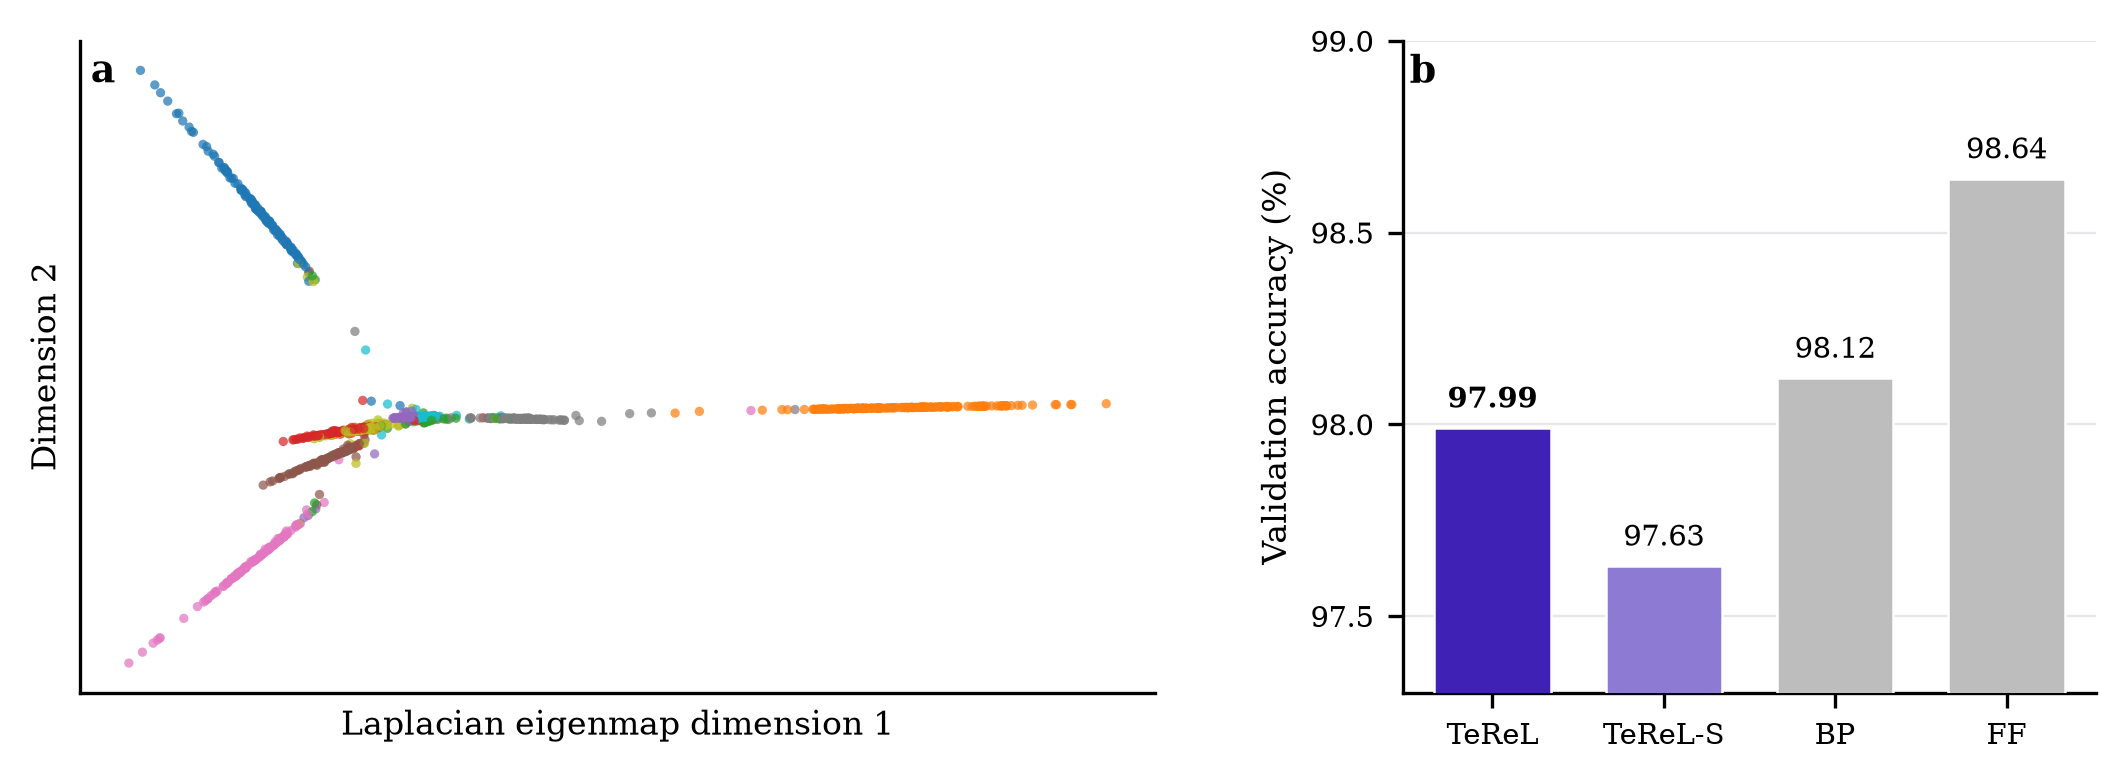
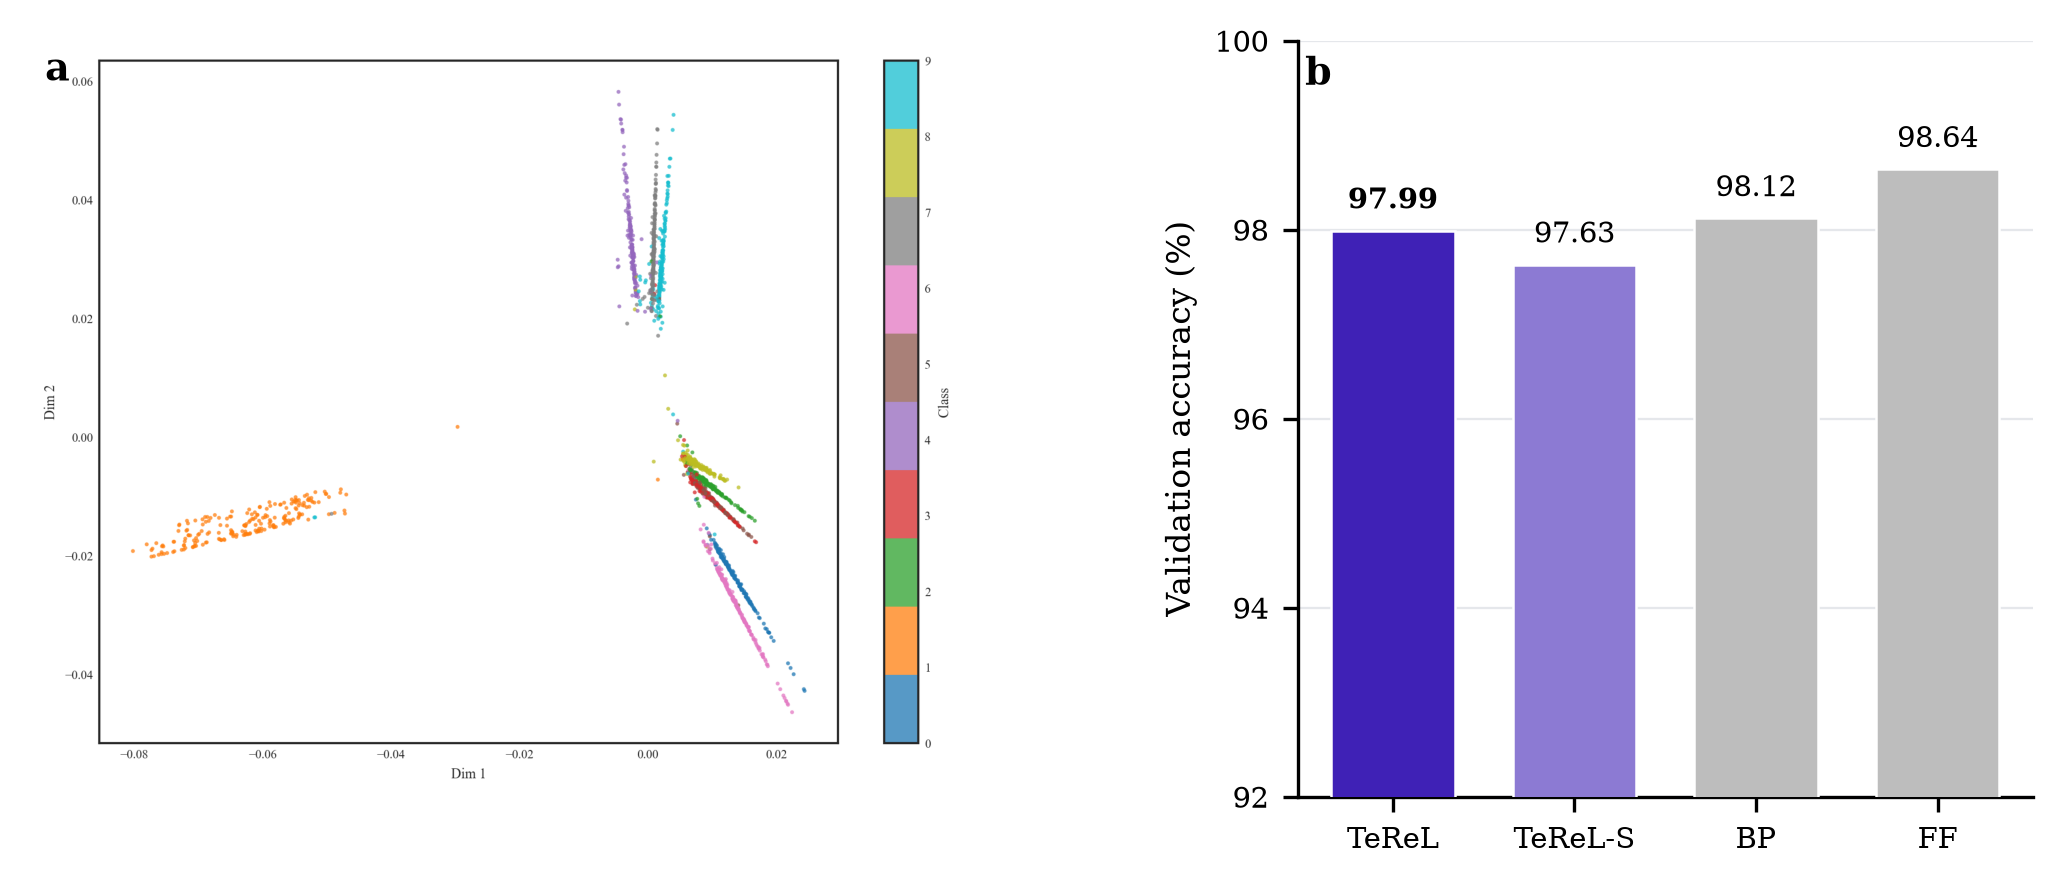
Restore project page fidelity and refine site copy

diff --git a/src/index.css b/src/index.css
@@ -15,7 +15,7 @@ All colors MUST be HSL.
     --canvas: 0 0% 100%;             /* #FFFFFF - White reading canvas */
     --canvas-foreground: 220 26% 9%; /* #111827 - Body text on white */
 
-    --accent: 251 69% 42%;           /* #3F21B6 - Axym primary */
+    --accent: 251 63% 62%;           /* #7862DC - lighter indigo on black */
     --accent-foreground: 0 0% 100%;
 
     --card: 0 0% 100%;
@@ -38,7 +38,7 @@ All colors MUST be HSL.
 
     --border: 0 0% 90%;
     --input: 0 0% 90%;
-    --ring: 251 69% 42%;
+    --ring: 251 63% 62%;
 
     --radius: 0.375rem;
   }
@@ -103,11 +103,19 @@ All colors MUST be HSL.
   }
 
   .prose a {
-    @apply underline text-accent hover:underline;
+    @apply underline hover:underline;
   }
 
   .prose blockquote {
-    @apply border-l-4 border-accent pl-4 italic my-4;
+    @apply border-l-4 pl-4 italic my-4;
+  }
+
+  .publication-canvas .prose a {
+    color: #3f21b6;
+  }
+
+  .publication-canvas .prose blockquote {
+    border-color: #3f21b6;
   }
 
   .prose code {

diff --git a/src/pages/Index.tsx b/src/pages/Index.tsx
@@ -38,10 +38,10 @@ const Index = () => {
           
           <div className="prose prose-lg">
             <p className="text-lg text-foreground leading-relaxed !text-gray-200">
-              Axym Labs develops and studies machine-learning methods across research and engineering settings.
-              We publish papers, project pages, experimental evidence, and code so others can inspect and build on the work.
-              Interested in collaborating or building on our work? Reach out at:{" "}
-              <a href="mailto:[email redacted]" className="hover:text-accent underline">
+              We combine theoretical analysis, empirical evaluation, and implementation to develop machine-learning methods.
+              We publish the resulting papers, project pages, evidence, and code so others can reproduce the results and extend the methods.
+              For collaboration or questions, write to{" "}
+              <a href="mailto:[email redacted]" className="text-accent underline">
                 [email redacted]
               </a>
               .

diff --git a/src/components/Hero.tsx b/src/components/Hero.tsx
@@ -2,13 +2,13 @@ const Hero = () => (
   <section id="hero" className="flex min-h-[82vh] items-center px-6 pt-24 lg:px-8">
     <div className="mx-auto w-full max-w-6xl">
       <p className="mb-7 text-sm font-semibold uppercase tracking-[0.2em] text-foreground/50">
-        Axym Labs
+        Collaborative ML Research
       </p>
       <h1 className="max-w-5xl text-4xl font-semibold leading-[1.08] text-foreground md:text-6xl lg:text-7xl">
         Axym Labs is a small organization conducting collaborative machine learning research.
       </h1>
       <p className="mt-8 max-w-3xl text-lg leading-relaxed text-foreground/65 md:text-xl">
-        We develop methods for continual, local, and task-agnostic learning, and publish the papers, code, and project pages behind them.
+        We develop methods for continual, local, and task-agnostic learning, then publish the evidence, papers, and code needed to evaluate and extend them.
       </p>
     </div>
   </section>

diff --git a/src/components/Footer.tsx b/src/components/Footer.tsx
@@ -19,7 +19,7 @@ const Footer = () => {
             rel="noopener noreferrer"
             className="text-accent underline"
           >
-            Github
+            GitHub
           </a>
           <a
             href="/disclosure"

diff --git a/src/content/latex/work/pptrain.tex b/src/content/latex/work/pptrain.tex
@@ -3,7 +3,7 @@
 % title: pptrain
 % category: product
 % eyebrow: TASK-AGNOSTIC LEARNING
-% summary: A reusable library for training language models on synthetic tasks before ordinary pretraining and evaluating what transfers downstream.
+% summary: A reusable library for task-agnostic pretraining on synthetic tasks and for measuring what transfers to later training.
 % draft: false
 % date: 2026-06-18
 % rank: 3
@@ -12,18 +12,22 @@
 \usepackage{publication-web}
 \begin{document}
 
-\section{pptrain: ready-to-use prepretraining}
+\publicationtitle{pptrain: Ready-to-use task-agnostic pretraining}
+\publicationauthors{Axym Labs}
+\publicationaffiliations{Darmstadt, Germany}
 
-\textbf{Axym Labs}\\
-Darmstadt, Germany
+\begin{publicationhead}
+\makepublicationtitle
+\end{publicationhead}
 
-\paragraph{Task-agnostic training.}
-Prepretraining is an emerging form of training that precedes ordinary pretraining. We term the broader objective \emph{task-agnostic training}: learning general patterns from synthetic or procedural tasks that can transfer across diverse downstream settings. Cellular automata, symbolic transformations, and mathematical primitives all fit this pattern.
+\publicationabstract{\textbf{Task-agnostic pretraining} trains a model on synthetic or procedural tasks selected for reusable structure rather than for one downstream objective. It seeks patterns that transfer across later tasks, including compositional rules, state transitions, symbolic operations, and compression strategies. Prepretraining is one implementation: the task-agnostic phase runs before training on natural data.}
 
-\textbf{\href{https://github.com/Axym-Labs/pptrain}{Code}} \quad
-\textbf{\href{https://pypi.org/project/pptrain/}{Package}}
+\publicationactions{%
+  \publicationaction{https://github.com/Axym-Labs/pptrain}{View code}
+  \publicationaction{https://pypi.org/project/pptrain/}{Open package}%
+}
 
-One hurdle toward using these ideas in practice is that most implementations live in paper-specific code, hidden data generators, and one-off training scripts. Another is verifying that the pre-pretrainer was instantiated correctly and has a positive effect. \href{https://github.com/Axym-Labs/pptrain}{\texttt{pptrain}} provides a common interface for both.
+Pre-pretraining is a good idea trapped in an awkward workflow. Most implementations live in paper-specific code, hidden data generators, and one-off training scripts, which makes it difficult to reproduce a task faithfully or determine whether it improves later training. \href{https://github.com/Axym-Labs/pptrain}{\texttt{pptrain}} provides one interface for both parts of that workflow.
 
 \section{Ready to use}
 
@@ -48,10 +52,30 @@ bundle = trainer.fit().load_transfer_bundle()
 
 \section{Task families}
 
-The library packages six task families from the literature as reusable presets: cellular-automata rollouts, balanced-bracket languages, procedural programs, symbolic operations, mathematical-reasoning primitives, and synthetic summarization. Each preset can be customized, and new task families can implement the same interface.
+The library packages six task families from the literature as reusable presets:
 
-\section{Reference parity and evaluation}
+\begin{itemize}
+\tightlist
+\item \texttt{nca}: cellular-automata rollouts that test whether simple dynamical systems provide useful upstream structure.
+\item \texttt{dyck}: balanced-bracket languages that isolate nested and stack-like structure.
+\item \texttt{procedural}: abstract programs such as reverse, sort, set, union, and delete that test algorithmic text transformations.
+\item \texttt{simpler\_tasks}: copy, search, set operations, and related symbolic transformations that decompose pretraining into controlled operations.
+\item \texttt{lime}: induction, deduction, and abduction tasks that target primitives of mathematical reasoning.
+\item \texttt{summarization}: synthetic document transformations that separate compression and selection from factual knowledge transfer.
+\end{itemize}
 
-Reference-parity utilities compare local outputs against original-source fixtures, because a changed generator, tokenizer, or serialization no longer tests the mechanism from the paper. The library also supports downstream transfer evaluation, compute-matched natural warmups, diagnostic metrics, plots, CSVs, and reports.
+Each preset can be customized. New task families can implement the same interface.
+
+\section{Reference parity}
+
+Production use also requires a correctness check. A changed generator, tokenizer, or serialization no longer tests the mechanism from the source paper, so \texttt{pptrain} compares local outputs against original-source fixtures for LIME, synthetic summarization, procedural pretraining, and NCA pre-pretraining. Normalized examples or token sequences must match the reference output exactly where exact parity is expected.
+
+\section{Empirical testing}
+
+The same interface supports downstream transfer evaluation and compute-matched natural-data warmups, together with diagnostic metrics, plots, CSVs, and reports. These tools test whether a synthetic task transfers in a particular model and training setup rather than assuming that a faithful implementation is useful by itself.
+
+\section{Extensibility}
+
+Custom pre-pretraining logic can implement \texttt{SymbolicTaskFamily} by defining how examples are sampled, executed, serialized, and tokenized. Tasks that need a custom dataset or loss path can implement \texttt{Task} directly. After the task supplies data and tokenization, the remaining path is ordinary model training: build a dataset, train a Hugging Face causal language model, save the checkpoint, and export a transfer bundle.
 
 \end{document}

diff --git a/src/content/latex/work/terel.tex b/src/content/latex/work/terel.tex
@@ -12,22 +12,26 @@
 \usepackage{publication-web}
 \begin{document}
 
-\section{Temporal Regularized Learning: Self-supervised learning local in space and time}
+\publicationtitle{Temporal Regularized Learning: Self-supervised learning local in space and time}
+\publicationauthors{Davide R. Wiest}
+\publicationaffiliations{Axym Labs; Darmstadt, Germany}
 
-\textbf{Davide R. Wiest}\\
-Axym Labs, Darmstadt, Germany
+\begin{publicationhead}
+\makepublicationtitle
+\end{publicationhead}
 
 \publicationfigure[\linewidth]
   {figures/terel-lead.png}{/work/terel-lead.png}
-  {A Laplacian-eigenmap projection of TeReL representations beside an MNIST accuracy comparison.}
-  {\textbf{Left:} Laplacian-eigenmap projection of TeReL validation representations, colored by MNIST class. \textbf{Right:} validation accuracy for the $4\times2000$ setting. TeReL closes the gap to backpropagation to 0.13 percentage points; Forward-Forward remains the strongest reported comparison.}
+  {A spectral projection of TeReL representations beside an MNIST accuracy comparison.}
+  {\textbf{Left:} Spectral projection of TeReL validation representations, colored by MNIST class. \textbf{Right:} validation accuracy for the $4\times2000$ setting. TeReL closes the gap to backpropagation to 0.13 percentage points at this scale; Forward-Forward remains the strongest reported comparison. TeReL, TeReL-S, and BP average five runs, whereas FF is a reported comparison without matched uncertainty.}
 
-\paragraph{Abstract.}
-We introduce Temporal Regularized Learning (TeReL), a spatially and temporally local learning rule for self-supervised representation learning from sequential input streams. The key idea is to instantiate a VICReg-style objective with temporally adjacent positives and non-differentiated running population statistics, yielding a per-neuron online loss with bounded state. We also analyze how this perspective connects modern SSL objectives to classical temporal representation learning rules such as Slow Feature Analysis and trace learning. We present TeReL and a simplified variant, TeReL-S, and evaluate them on MNIST under controlled temporal orderings. Our method achieves competitive accuracy compared to backpropagation, Forward-Forward, and Equilibrium Propagation, while learning highly class-separable representations with rich first-layer receptive fields; TeReL-S attains similar performance despite its more restricted design. We further study a scoped recurrent setting on MNIST-Rows next-row prediction, comparing against a backpropagation-through-time baseline, and provide quantitative latent trajectories.
+\publicationabstract{We introduce Temporal Regularized Learning (TeReL), a spatially and temporally local learning rule for self-supervised representation learning from sequential input streams. The key idea is to instantiate a VICReg-style objective with temporally adjacent positives and non-differentiated running population statistics, yielding a per-neuron online loss with bounded state. We also analyze how this perspective connects modern SSL objectives to classical temporal representation learning rules such as Slow Feature Analysis and trace learning. We present TeReL and a simplified variant, TeReL-S, and evaluate them on MNIST under controlled temporal orderings. Our method achieves competitive accuracy compared to backpropagation, Forward-Forward, and Equilibrium Propagation, while learning highly class-separable representations with rich first-layer receptive fields; TeReL-S attains similar performance despite its more restricted design. We further study a scoped recurrent setting on MNIST-Rows next-row prediction, comparing against a backpropagation-through-time baseline, and provide quantitative latent trajectories.}
 
-\textbf{\href{/files/terel.pdf}{Paper}} \quad
-\textbf{\href{https://github.com/Axym-Labs/TeReL}{Code}} \quad
-\textbf{\href{https://doi.org/10.5281/zenodo.18673107}{DOI}}
+\publicationactions{%
+  \publicationaction{/files/terel.pdf}{Read paper}
+  \publicationaction{https://github.com/Axym-Labs/TeReL}{View code}
+  \publicationaction{https://doi.org/10.5281/zenodo.18673107}{Open DOI}%
+}
 
 \section{Method}
 

diff --git a/src/content/latex/work/iewc.tex b/src/content/latex/work/iewc.tex
@@ -12,23 +12,26 @@
 \usepackage{publication-web}
 \begin{document}
 
-\section{Improved Elastic Weight Consolidation as an Optimization Constraint for Continual Learning}
+\publicationtitle{Improved Elastic Weight Consolidation as an Optimization Constraint for Continual Learning}
+\publicationauthors{Davide Wiest}
+\publicationaffiliations{Department of Computer Science, TU Darmstadt; Independent Researcher; Darmstadt, Germany}
 
-\textbf{Davide Wiest}\\
-Department of Computer Science, TU Darmstadt; Independent Researcher\\
-Darmstadt, Germany
+\begin{publicationhead}
+\makepublicationtitle
+\end{publicationhead}
 
 \publicationfigure[0.9\linewidth]
   {figures/iewc-overview.png}{/work/iewc-overview.png}
   {Penalty surfaces comparing empirical-Fisher EWC, uniform IEWC, and sample-weighted IEWC.}
   {Each surface shows the continual-learning penalty over normalized directions. EF-EWC induces anisotropy through gradient-scale weighting; uniform IEWC removes this scaling, while GSS-IEWC weights samples by diversity.}
 
-\paragraph{Abstract.}
-Elastic Weight Consolidation (EWC) is widely used in continual learning, and standard implementations use the empirical Fisher matrix, whose justification beyond probabilistic classification remains incomplete. We derive EWC from first principles by expressing old-task solution preservation as a constrained optimization problem. Preserving the old scalar loss recovers the empirical Fisher used in EWC. Preserving outputs up to motion along the old-task loss level set recovers the improved empirical Fisher and leads to IEWC, a generalized and normalized sibling of EWC. This separates the outer EWC mechanism from output geometry and enables geometry-aware continual learning within the same regularization template. Across image classification, continual LLM/NLP, segmentation, forecasting, and diffusion, IEWC improves final average performance in two settings and, with sample weighting, improves performance across all tested settings.
+\publicationabstract{Elastic Weight Consolidation (EWC) is widely used in continual learning, and standard implementations use the empirical Fisher matrix, whose justification beyond probabilistic classification remains incomplete. We derive EWC from first principles by expressing old-task solution preservation as a constrained optimization problem. Preserving the old scalar loss recovers the empirical Fisher used in EWC. Preserving outputs up to motion along the old-task loss level set recovers the improved empirical Fisher and leads to IEWC, a generalized and normalized sibling of EWC. This separates the outer EWC mechanism from output geometry and enables geometry-aware continual learning within the same regularization template. Across image classification, continual LLM/NLP, segmentation, forecasting, and diffusion, IEWC improves final average performance in two settings and, with sample weighting, improves performance across all tested settings.}
 
-\textbf{\href{/files/iewc.pdf}{Paper}} \quad
-\textbf{\href{https://github.com/Axym-Labs/iewc}{Code}} \quad
-\textbf{\href{https://doi.org/10.5281/zenodo.20724067}{DOI}}
+\publicationactions{%
+  \publicationaction{/files/iewc.pdf}{Read paper}
+  \publicationaction{https://github.com/Axym-Labs/iewc}{View code}
+  \publicationaction{https://doi.org/10.5281/zenodo.20724067}{Open DOI}%
+}
 
 \section{From preservation constraints to IEWC}
 